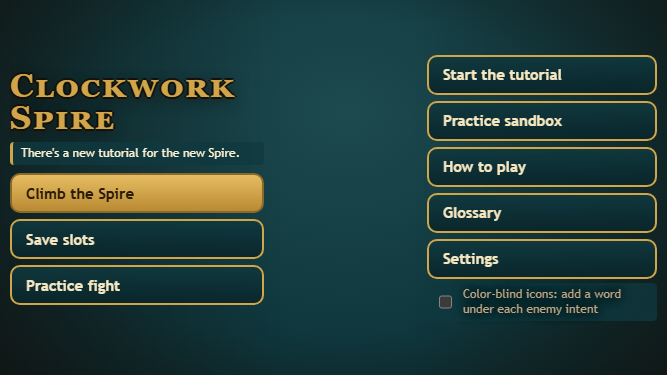
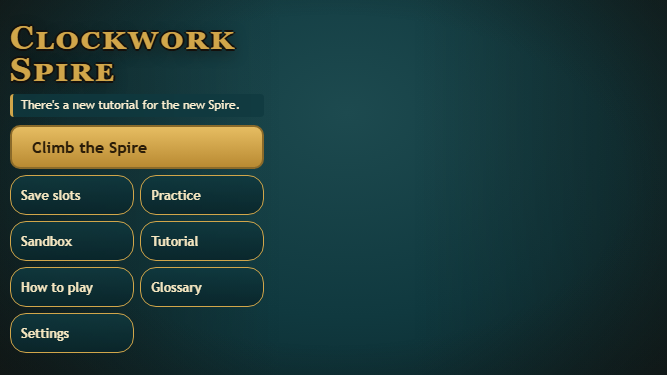
B10d.1 art round 1 fixes: one primary plus a pill grid, softer steam, livelier lamps, no color-blind box or keys hint on the title, Practice and Sandbox labels

diff --git a/src/ui/Title.tsx b/src/ui/Title.tsx
@@ -1,5 +1,5 @@
 import { climbing, continueRun, enterWorkshop, hasOngoingFight, newFight, openPractice, openSlots, resume, startTutorial } from '../app/controller';
-import { colorBlind, openGlossary, openHowTo, openSettings, setColorBlind } from '../app/prefs';
+import { openGlossary, openHowTo, openSettings } from '../app/prefs';
 import { unlockAudio } from '../audio/synth';
 import { useEffect, useRef, useState } from 'preact/hooks';
 import { tutorialDone, tutorialV2Seen } from '../app/prefs';
@@ -99,66 +99,56 @@ export function Title() {
               Climb the Spire
             </button>
           )}
-          <button class="secondary" data-testid="open-slots" onClick={() => void openSlots()}>
-            Save slots
-          </button>
+        </div>
+        <div class="tt-pills">
           {ongoing && (
             <button
-              class="secondary"
+              class="secondary pill"
               data-testid="continue"
               onClick={() => {
                 unlockAudio();
                 resume();
               }}
             >
-              Continue practice fight
+              Resume practice
             </button>
           )}
+          <button class="secondary pill" data-testid="open-slots" onClick={() => void openSlots()}>
+            Save slots
+          </button>
           <button
-            class="secondary"
+            class="secondary pill"
             data-testid="practice"
             onClick={() => {
               unlockAudio();
               newFight();
             }}
           >
-            {ongoing ? 'New practice fight' : 'Practice fight'}
+            {ongoing ? 'New practice' : 'Practice'}
           </button>
-        </div>
-      </div>
-      <div class="tt-col tt-right">
-        <div class="title-actions">
+          <button class="secondary pill" data-testid="sandbox" onClick={openPractice}>
+            Sandbox
+          </button>
           <button
-            class="secondary"
+            class="secondary pill"
             data-testid="tutorial"
             onClick={() => {
               unlockAudio();
               startTutorial();
             }}
           >
-            Start the tutorial
+            Tutorial
           </button>
-          <button class="secondary" data-testid="sandbox" onClick={openPractice}>
-            Practice sandbox
-          </button>
-        </div>
-        <div class="title-links">
-          <button class="secondary small" data-testid="open-howto" onClick={() => openHowTo()}>
+          <button class="secondary pill" data-testid="open-howto" onClick={() => openHowTo()}>
             How to play
           </button>
-          <button class="secondary small" data-testid="open-glossary" onClick={() => openGlossary()}>
+          <button class="secondary pill" data-testid="open-glossary" onClick={() => openGlossary()}>
             Glossary
           </button>
-          <button class="secondary small" data-testid="open-settings" onClick={() => openSettings()}>
+          <button class="secondary pill" data-testid="open-settings" onClick={() => openSettings()}>
             Settings
           </button>
         </div>
-        <label class="check">
-          <input type="checkbox" data-testid="colorblind" checked={colorBlind.value} onChange={(e) => setColorBlind((e.currentTarget as HTMLInputElement).checked)} />
-          Color-blind icons: add a word under each enemy intent
-        </label>
-        {ongoing && <p class="hint">Starting a new practice fight replaces the one in progress.</p>}
-        <p class="hint tt-keys">Keys in a fight: 1-4 pick a part, arrows move, Enter places, R runs.</p>
       </div>
     </main>
   );

diff --git a/src/ui/titleAmbience.ts b/src/ui/titleAmbience.ts
@@ -33,7 +33,6 @@ const ANCHORS = {
     [206, 592, 1.0],
     [452, 530, 1.1],
     [365, 585, 0.9],
-    [1003, 640, 0.8],
     [505, 440, 0.7],
   ] as [number, number, number][],
 };
@@ -149,7 +148,7 @@ export function startTitleAmbience(cv: HTMLCanvasElement, opts: { still?: boolea
     const r = mulberry(1000 + j);
     const N = Math.round(18 * v[2]);
     for (let n = 0; n < N; n++)
-      puffs.push({ v, off: n / N + (r() - 0.5) * 0.02, jx: (r() - 0.5) * 4, vx: WIND * (0.5 + r() * 0.5), vy: -(14 + r() * 8) * v[2], r0: 4 + r() * 3, g: 6 + r() * 5, a: 0.4 + r() * 0.2, ph: r() * TAU });
+      puffs.push({ v, off: n / N + (r() - 0.5) * 0.02, jx: (r() - 0.5) * 4, vx: WIND * (0.5 + r() * 0.5), vy: -(14 + r() * 8) * v[2], r0: 2.5 + r() * 2, g: 4 + r() * 3, a: 0.3 + r() * 0.15, ph: r() * TAU });
   });
   const embers: { off: number; life: number; x0: number; y0: number; vx: number; vy: number; r: number; ph: number; tw: number; hot: boolean }[] = [];
   {
@@ -168,7 +167,7 @@ export function startTitleAmbience(cv: HTMLCanvasElement, opts: { still?: boolea
     }
   }
   const lampLevel = (l: (typeof lamps)[number], t: number): number => {
-    let v = 0.72 + 0.16 * Math.sin(w_(l.k1) * t + l.ph) + 0.1 * Math.sin(w_(l.k2) * t + l.ph * 2.3) + 0.05 * Math.sin(w_(l.k3) * t + l.ph * 5);
+    let v = 0.7 + 0.22 * Math.sin(w_(l.k1) * t + l.ph) + 0.14 * Math.sin(w_(l.k2) * t + l.ph * 2.3) + 0.05 * Math.sin(w_(l.k3) * t + l.ph * 5);
     if (l.slow) {
       const u = (t / P + l.off) % 1;
       v *= 0.1 + 0.9 * sm(0, 0.06, u) * (1 - sm(0.6, 0.66, u));
@@ -193,13 +192,14 @@ export function startTitleAmbience(cv: HTMLCanvasElement, opts: { still?: boolea
       const x = p.v[0] + p.jx + p.vx * age * 1.15 + Math.sin(TAU * u * 2 + p.ph) * 3;
       const y = p.v[1] + p.vy * age * (1 - 0.09 * age);
       const r = (p.r0 + p.g * age * 0.8) * p.v[2];
-      ctx.globalAlpha = p.a * sm(0, 0.12, u) * (1 - sm(0.35, 1, u)) * 0.85;
-      ctx.drawImage(puff, x - r, y - r, r * 2, r * 2);
+      ctx.globalAlpha = p.a * sm(0, 0.18, u) * (1 - sm(0.2, 1, u)) * 0.6;
+      ctx.drawImage(puff, x - r * 0.7, y - r * 1.7, r * 1.4, r * 3.4); // a soft plume, taller than wide
     }
     ctx.globalCompositeOperation = 'lighter';
     for (const l of lamps) {
-      const R = l.r * 2.6;
-      ctx.globalAlpha = Math.min(1, lampLevel(l, t) * 0.85);
+      const lv = lampLevel(l, t);
+      const R = l.r * (2.2 + 0.7 * lv);
+      ctx.globalAlpha = Math.min(1, lv * 0.85);
       ctx.drawImage(glowFor(COL[l.kind] ?? COL.amber), l.x - R, l.y - R, R * 2, R * 2);
     }
     for (const id of ['clockL', 'clockR'] as const) {

diff --git a/e2e/v2-title.spec.ts b/e2e/v2-title.spec.ts
@@ -3,7 +3,7 @@
 // Written by the orchestrator's test-porter in the B10d.0 contract step. Lanes never weaken an assertion.
 // CONTRACT test ids and hooks the title lane implements (src/ui/Title.tsx, a new title.css; every id and behavior the title has
 // today stays: `climb`, `continue-run`, `continue`, `open-slots`, `practice`, `tutorial`, `sandbox`, `open-howto`, `open-glossary`,
-// `open-settings`, `colorblind`; labels may change):
+// `open-settings` (`colorblind` moved to Settings); labels may change):
 //   title                 existing root. A fresh profile (no cs.tutorialDone) now lands HERE on boot, not in the tutorial
 //   title-art             the painted title (an <img>, canvas or element with a background): visible once loaded, covers at least
 //                         90% of the viewport; data-loaded="false" until the image has decoded, then "true"
@@ -140,7 +140,7 @@ test('AR3: Continue appears only when something is in progress', async ({ page }
 test('every existing title id is present', async ({ page }) => {
   const errors = watchErrors(page);
   await title(page);
-  for (const id of ['climb', 'open-slots', 'practice', 'tutorial', 'sandbox', 'open-howto', 'open-glossary', 'open-settings', 'colorblind']) await expect(page.getByTestId(id), id).toBeVisible();
+  for (const id of ['climb', 'open-slots', 'practice', 'tutorial', 'sandbox', 'open-howto', 'open-glossary', 'open-settings']) await expect(page.getByTestId(id), id).toBeVisible();
   await noSidewaysScroll(page);
   expect(errors).toEqual([]);
 });
@@ -165,11 +165,7 @@ for (const [id, lands] of GOES) {
   });
 }
 
-test('title id colorblind still toggles the preference', async ({ page }) => {
-  await title(page);
-  await page.getByTestId('colorblind').check();
-  expect(await page.evaluate(() => window.localStorage.getItem('cs.colorBlind'))).toBe('1');
-});
+// The color-blind toggle left the title (B10d.1 art review): it lives in Settings (`set-colorblind`, e2e/settings.spec.ts) and the fight menu (`menu-colorblind`).
 
 test('AR3: while the painting is delayed the text title shows with the same buttons; then the painting arrives and the buttons are the same DOM', async ({ page }) => {
   await skipFirstLaunch(page);

diff --git a/src/ui/title.css b/src/ui/title.css
@@ -93,6 +93,7 @@
 }
 
 .tt-banner {
+  white-space: nowrap;
   margin: 0 0 10px;
   padding: 6px 10px;
   font-size: 13px;
@@ -122,75 +123,46 @@
   text-align: left;
 }
 
-.tt .title-actions .secondary,
-.tt .title-links .secondary {
-  background: linear-gradient(180deg, rgba(16, 57, 63, 0.9), rgba(10, 38, 43, 0.94));
-  border-color: var(--brass);
-  color: #f6e7c1;
-}
-
-.tt .title-links {
-  flex-direction: column;
-  align-items: stretch;
-  flex-wrap: nowrap;
+.tt-pills {
+  display: grid;
+  grid-template-columns: 1fr 1fr;
   gap: 8px;
   margin-top: 8px;
 }
 
-.tt .title-links .small {
+.tt .pill {
   min-width: 0;
-  min-height: 44px;
-  font-size: inherit;
-  padding: 8px 20px;
-  text-align: left;
+  min-height: 40px;
+  padding: 4px 10px;
+  font-size: 14px;
+  text-align: center;
+  background: linear-gradient(180deg, rgba(16, 57, 63, 0.88), rgba(10, 38, 43, 0.92));
+  border-color: var(--brass);
+  color: #f6e7c1;
 }
 
-.tt .check,
-.tt .hint {
-  background: rgba(16, 57, 63, 0.78);
-  border-radius: 4px;
-  padding: 4px 8px;
-}
-
-.tt .check {
-  justify-content: flex-start;
-  font-size: 13px;
-  line-height: 1.25;
-  margin-top: 8px;
-}
-
-/* phone landscape: both columns have to hold their buttons at 40 px in under 375 px of height */
+/* phone landscape: one column of heading, banner, the primary button and a grid of pills, all under 375 px of height */
 @media (max-height: 520px) {
   .tt-col {
     padding: 6px 0;
   }
   .tt .eyebrow,
-  .tt .lede,
-  .tt-keys {
+  .tt .lede {
     display: none;
   }
   .tt-logo {
     font-size: clamp(26px, calc(var(--lw) / 7.8), 38px);
     margin: 0 0 8px;
   }
-  .tt .title-actions {
-    gap: 6px;
+  .tt .title-actions .primary {
+    min-height: 44px;
   }
-  .tt .title-actions .primary,
-  .tt .title-actions .secondary,
-  .tt .title-links .small {
-    min-height: 40px;
-    padding: 4px 14px;
-    font-size: 15px;
-  }
-  .tt .title-links {
+  .tt-pills {
     gap: 6px;
     margin-top: 6px;
   }
-  .tt .check {
-    font-size: 12px;
-    margin-top: 4px;
-    min-height: 36px;
+  .tt .pill {
+    font-size: 13px;
   }
   .tt-banner {
     font-size: 12px;
